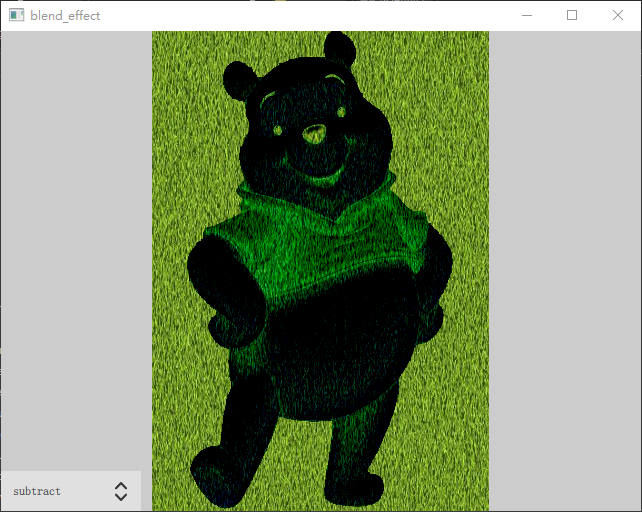
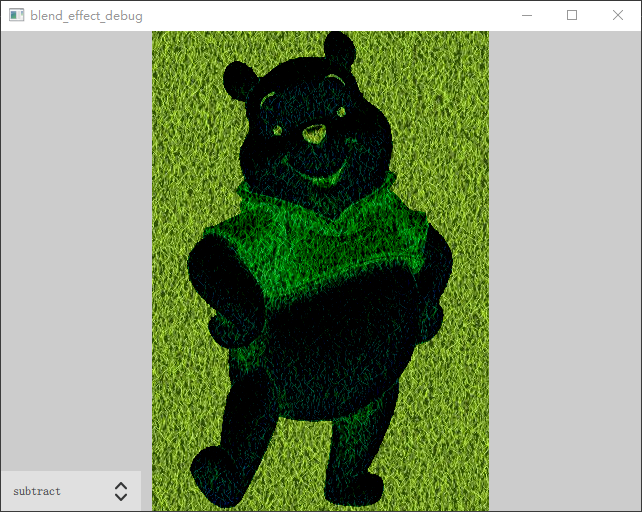
+little change

Changed region(s): [[0.2181, 0.0625, 0.7788, 1.0], [0.1558, 0.0, 0.2181, 0.0625]]

diff --git a/chapter06/blend_effect/myqml/blend_effect/main.qml b/chapter06/blend_effect/myqml/blend_effect/main.qml
@@ -9,7 +9,7 @@ Rectangle {
     color: Qt.rgba(0.8,0.8,0.8,1);
 
     Image{
-        anchors.fill: parent;
+        anchors.fill: idBear;
         source: "grass.jpg"
         fillMode: Image.Tile
         id : idGrass

diff --git a/TheBook/chapter06/Blend.tex b/TheBook/chapter06/Blend.tex
@@ -29,6 +29,9 @@ $v$代表最终结果。}
 
 \input{chapter06/blendeffect/table_mode/table.tex}
 
+如\filesourcenumbernameone\ \ref{f000052}展
+示了Blend的常见用法。
+
 %begin图片
 \begin{figure}[htb] %浮动体 here and top ...
 %there must use marginnote ...
@@ -58,7 +61,7 @@ Rectangle {
     color: Qt.rgba(0.8,0.8,0.8,1);
 
     Image{
-        anchors.fill: parent;
+        anchors.fill: idBear;
         source: "grass.jpg"
         fillMode: Image.Tile
         id : idGrass
@@ -89,9 +92,6 @@ Rectangle {
 }(*@\marginpar[\hfill\setlength\fboxsep{2pt}\fbox{\footnotesize{\kaishu\parbox{1em}{\setlength{\baselineskip}{2pt}\filesourcenumbernameone}}\footnotesize{\thefilesourcenumber}}]{\setlength\fboxsep{2pt}\fbox{\footnotesize{\kaishu\parbox{1em}{\setlength{\baselineskip}{2pt}\filesourcenumbernameone}}\footnotesize{\thefilesourcenumber}}}@*)\end{thebookfilesourceone}          %抄录环境
 \addtocounter{lstlisting}{-1}   %sub lstlisting counter ...
 %\end{spacing}
-
-
- 
 
 
 
